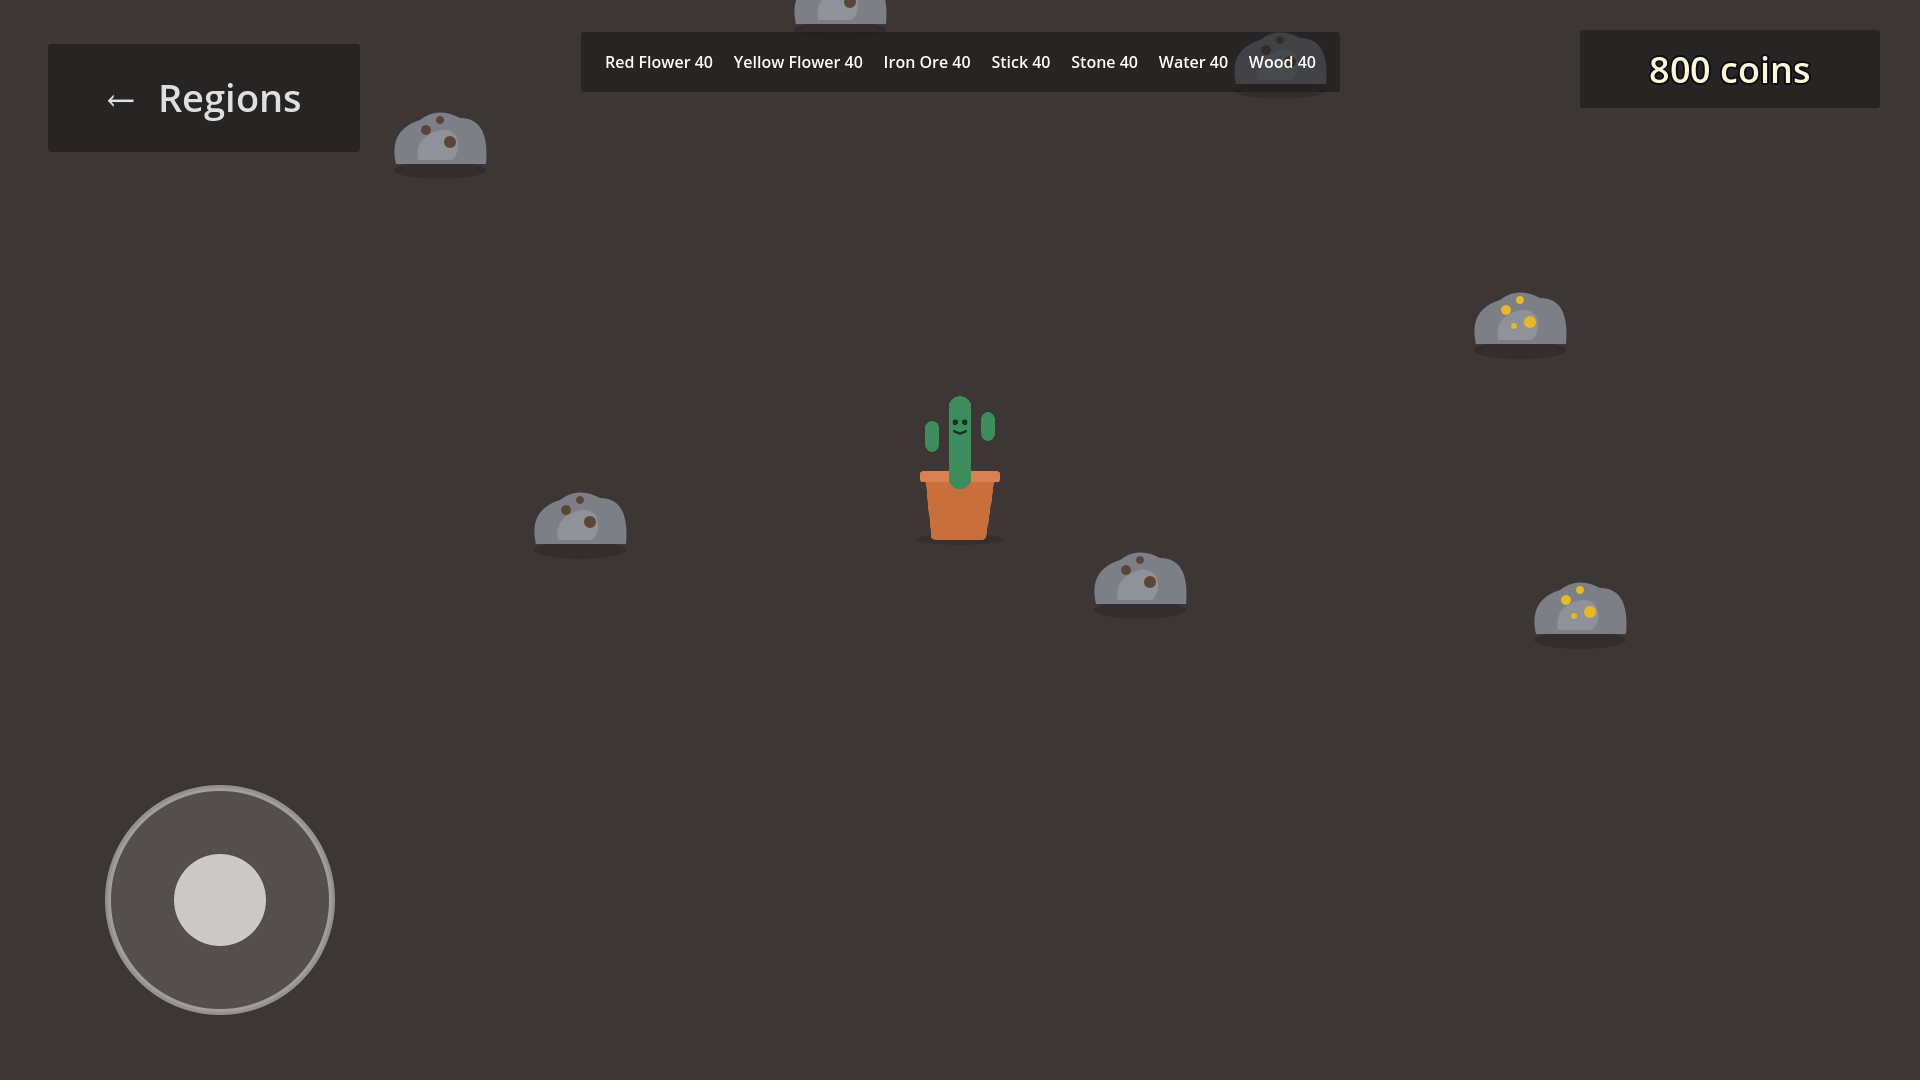
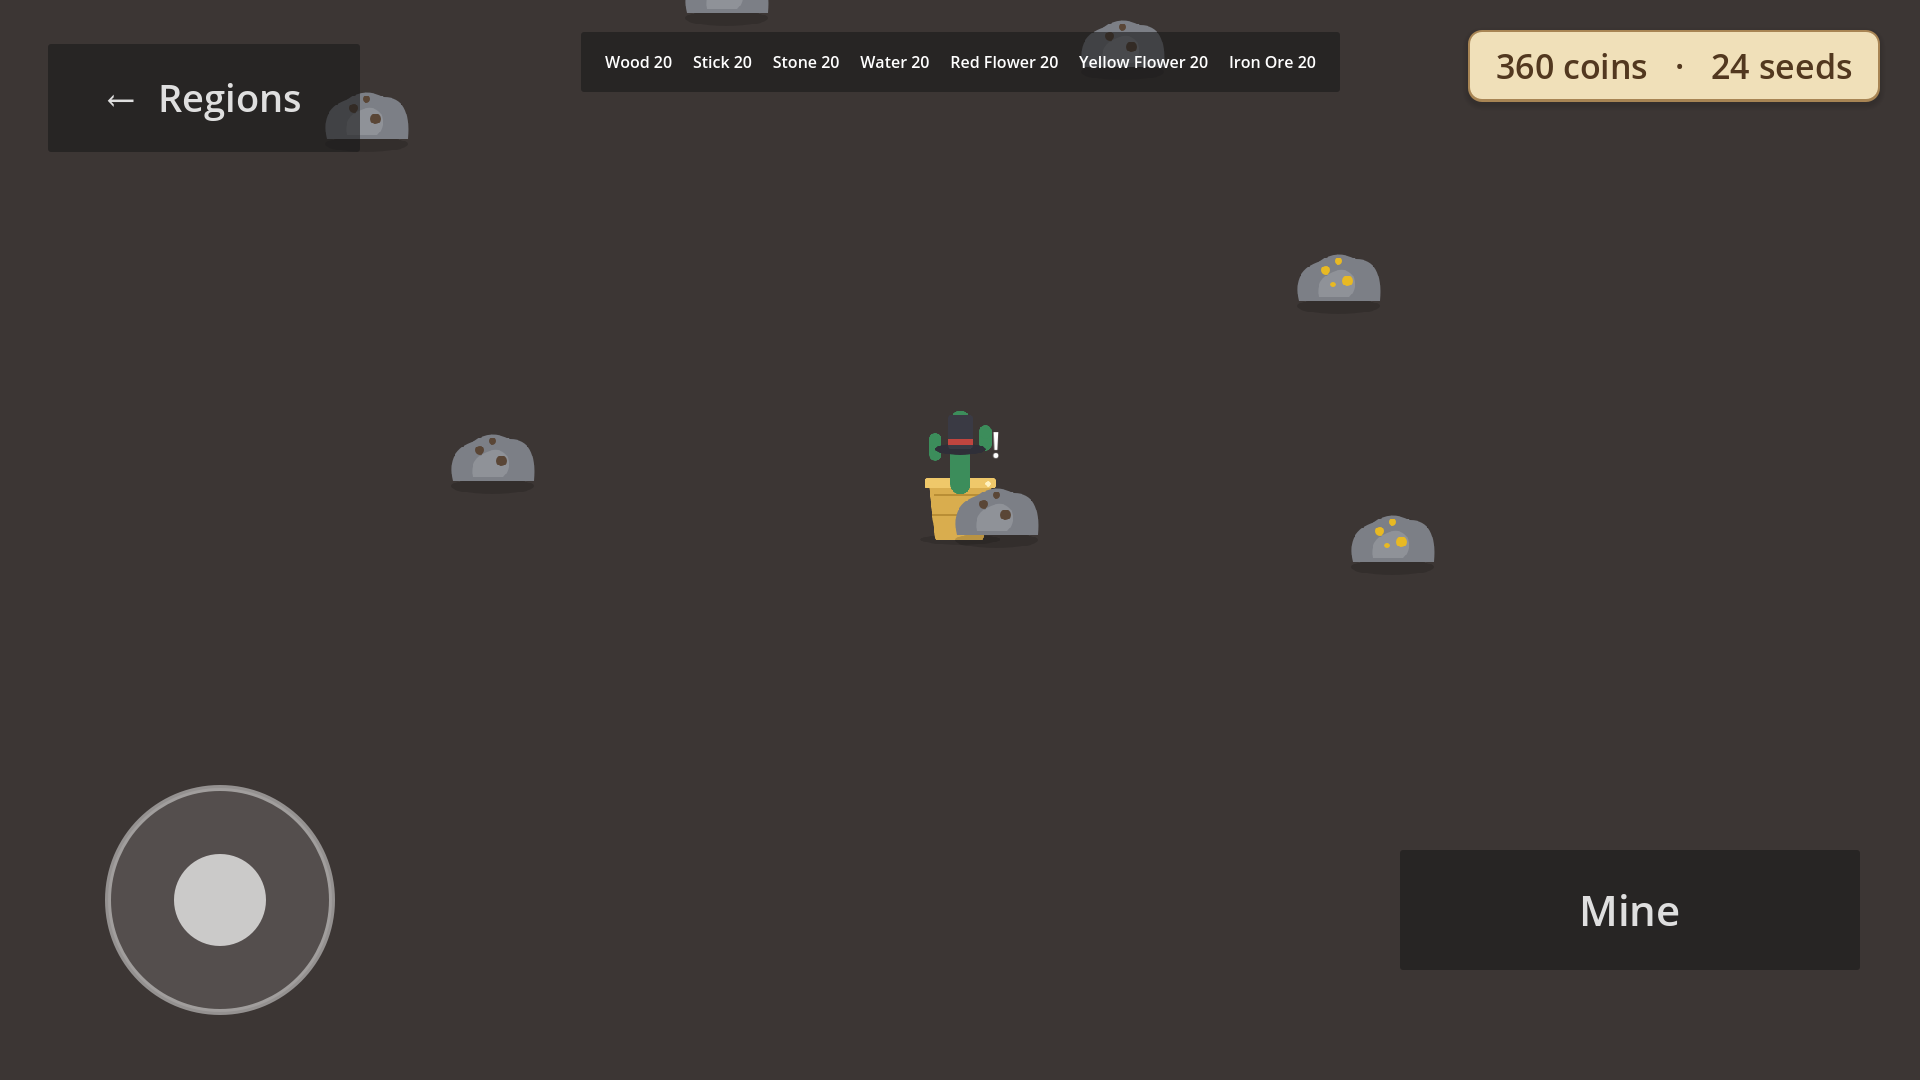
Regenerate Play Store screenshots; AAB 0.4.0 (code 7)
Fresh 1920x1080 landscape shots reflecting the current build (plant-room hub,
per-section road layouts, bloom-tier decoration, seed shop, 7 mini-games).
ScreenshotNode gains a nohud arg (hides joystick / action buttons for clean
store shots), onboarded now fully finishes the tutorial without toasts, and
bloom= drives GameState.DebugBloomTier.

diff --git a/scripts/dev/ScreenshotNode.cs b/scripts/dev/ScreenshotNode.cs
@@ -62,6 +62,17 @@ public partial class ScreenshotNode : Node
 		var outPath = args.Length > 1 ? args[1] : "user://shot.png";
 		var frames = args.Length > 2 ? int.Parse(args[2]) : 20;
 
+		// Onboarding first: claim every tutorial notice so nothing auto-claims (and
+		// toasts) during the rest of the setup below.
+		if (args.Contains("onboarded"))
+		{
+			foreach (var t in Notices.Tutorial)
+				GameState.Instance.ClaimNotice(t.Id, 0, 0);
+			GameState.Instance.SetObjectState("intro_sign", "fixed");
+			foreach (var f in new[] { "gathered", "customised", "arcade_win" })
+				GameState.Instance.SetFlag(f);
+		}
+
 		if (args.Contains("grant"))
 		{
 			GameState.Instance.AddCoins(400);
@@ -83,12 +94,6 @@ public partial class ScreenshotNode : Node
 						GameState.Instance.SetObjectState(oid, "fixed");
 				}
 			}
-
-		if (args.Contains("onboarded"))
-		{
-			GameState.Instance.SetObjectState("intro_sign", "fixed");
-			GameState.Instance.SetFlag("gathered");
-		}
 
 		foreach (var arg in args)
 			if (arg.StartsWith("unlock="))
@@ -116,6 +121,11 @@ public partial class ScreenshotNode : Node
 		}
 
 		AddChild(scene);
+
+		if (args.Contains("nohud"))
+			foreach (var n in new[] { "%VirtualJoystick", "%ActionButton", "%GatherButton" })
+				if (scene.GetNodeOrNull<CanvasItem>(n) is { } ci)
+					ci.Visible = false;
 
 		Vector2 walk = Vector2.Zero;
 		foreach (var arg in args)
@@ -185,11 +195,11 @@ public partial class ScreenshotNode : Node
 
 		if (args.Contains("dressup"))
 		{
-			foreach (var id in new[] { "pot_slate", "plant_aloe", "acc_hat" })
-			{
-				GameState.Instance.BuyPlantItem(id);
-				GameState.Instance.EquipPlantItem(id);
-			}
+			GameState.Instance.AddSeeds(30);
+			GameState.Instance.BuyPlantItemWithSeeds("pot_gold");
+			GameState.Instance.BuyPlantItem("acc_hat");
+			GameState.Instance.EquipPlantItem("pot_gold");
+			GameState.Instance.EquipPlantItem("acc_hat");
 			for (var i = 0; i < 4; i++)
 				await ToSignal(GetTree(), SceneTree.SignalName.ProcessFrame);
 		}

diff --git a/ANDROID.md b/ANDROID.md
@@ -82,7 +82,7 @@ godot --headless --path . --export-release "Android"           build/CactusTownM
 - **APK preset** — arm64 + x86_64, format APK, for `adb install` / emulator.
 - **Android** preset — arm64 only, **AAB**, signed, for Play. `version/code` must
   increase on every upload; `version/name` is the human string. (Currently
-  code `6`, name `0.3.0`.) Launcher icon layers are wired via
+  code `7`, name `0.4.0`.) Launcher icon layers are wired via
   `launcher_icons/*` → `res://assets/icons/*` (regenerate from
   `assets/store/src/icon*.svg` with the `store_assets` screenshot mode).
 
